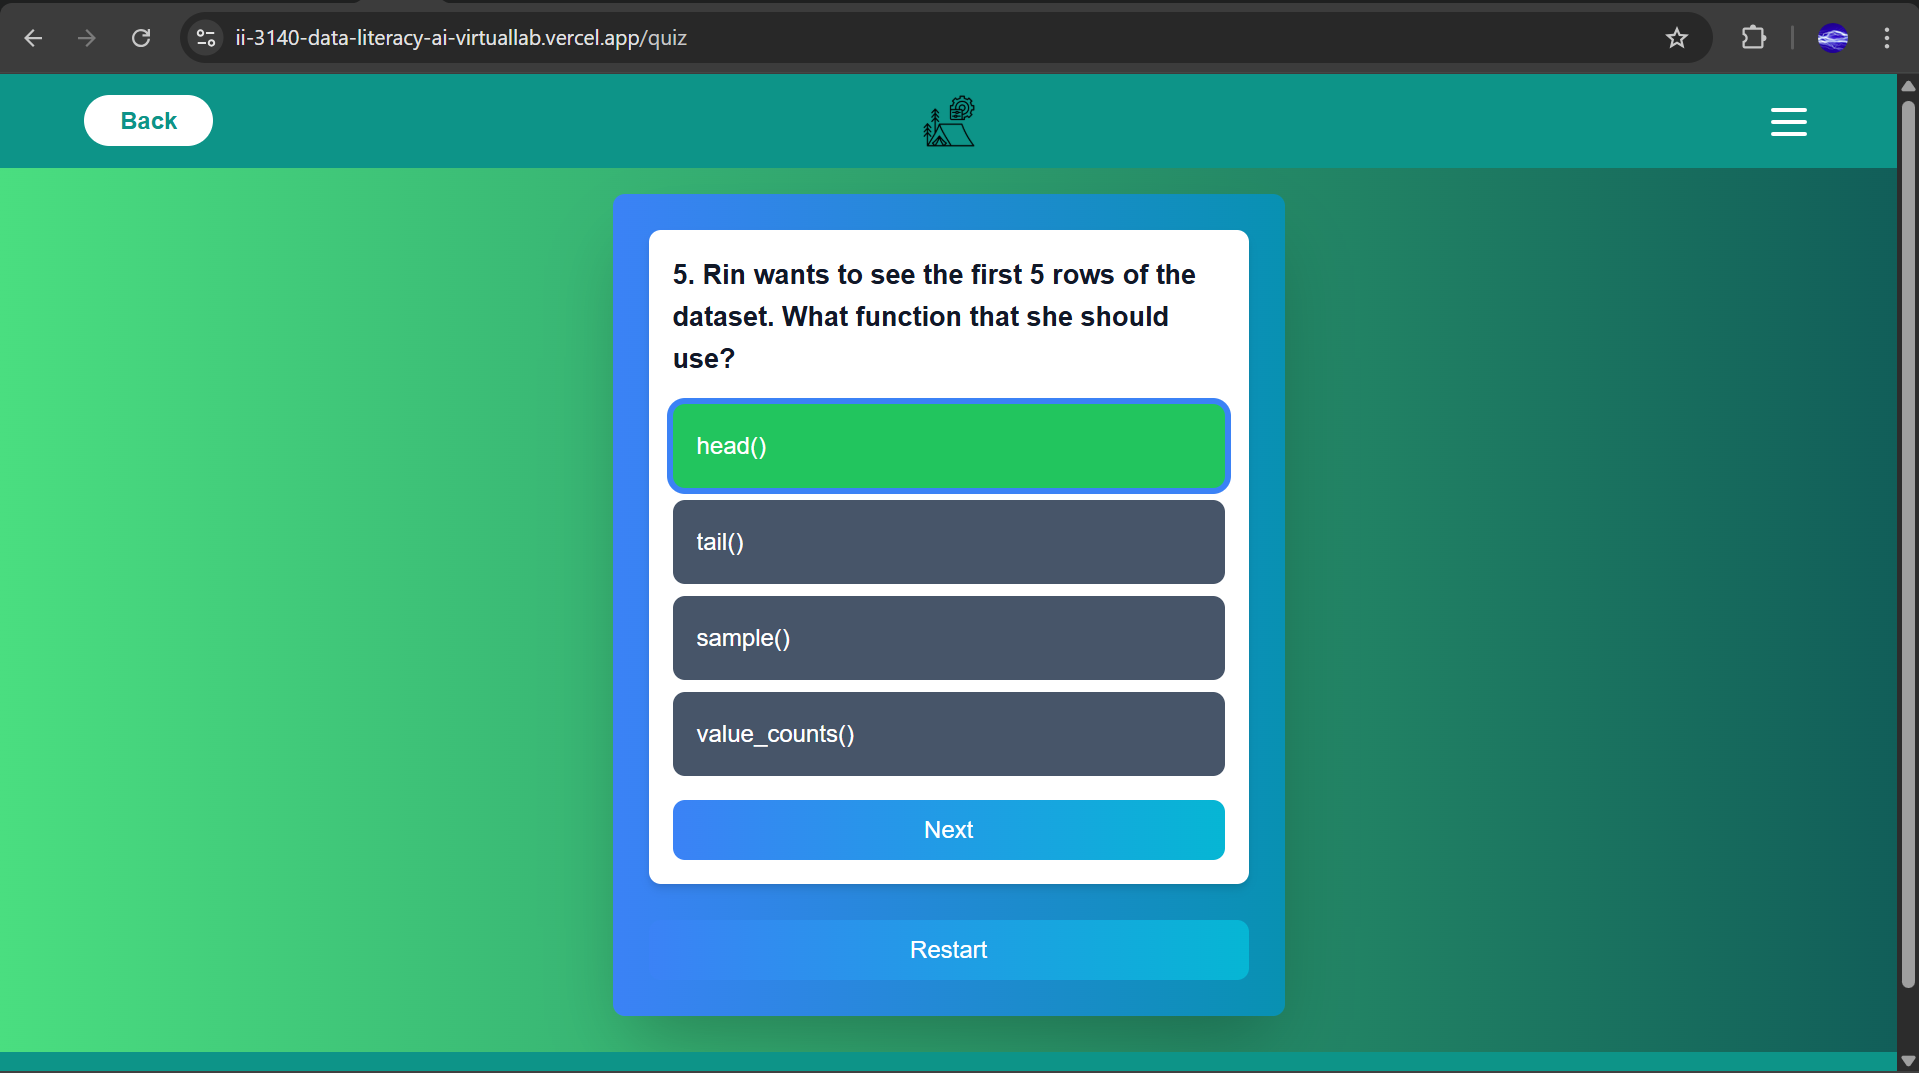
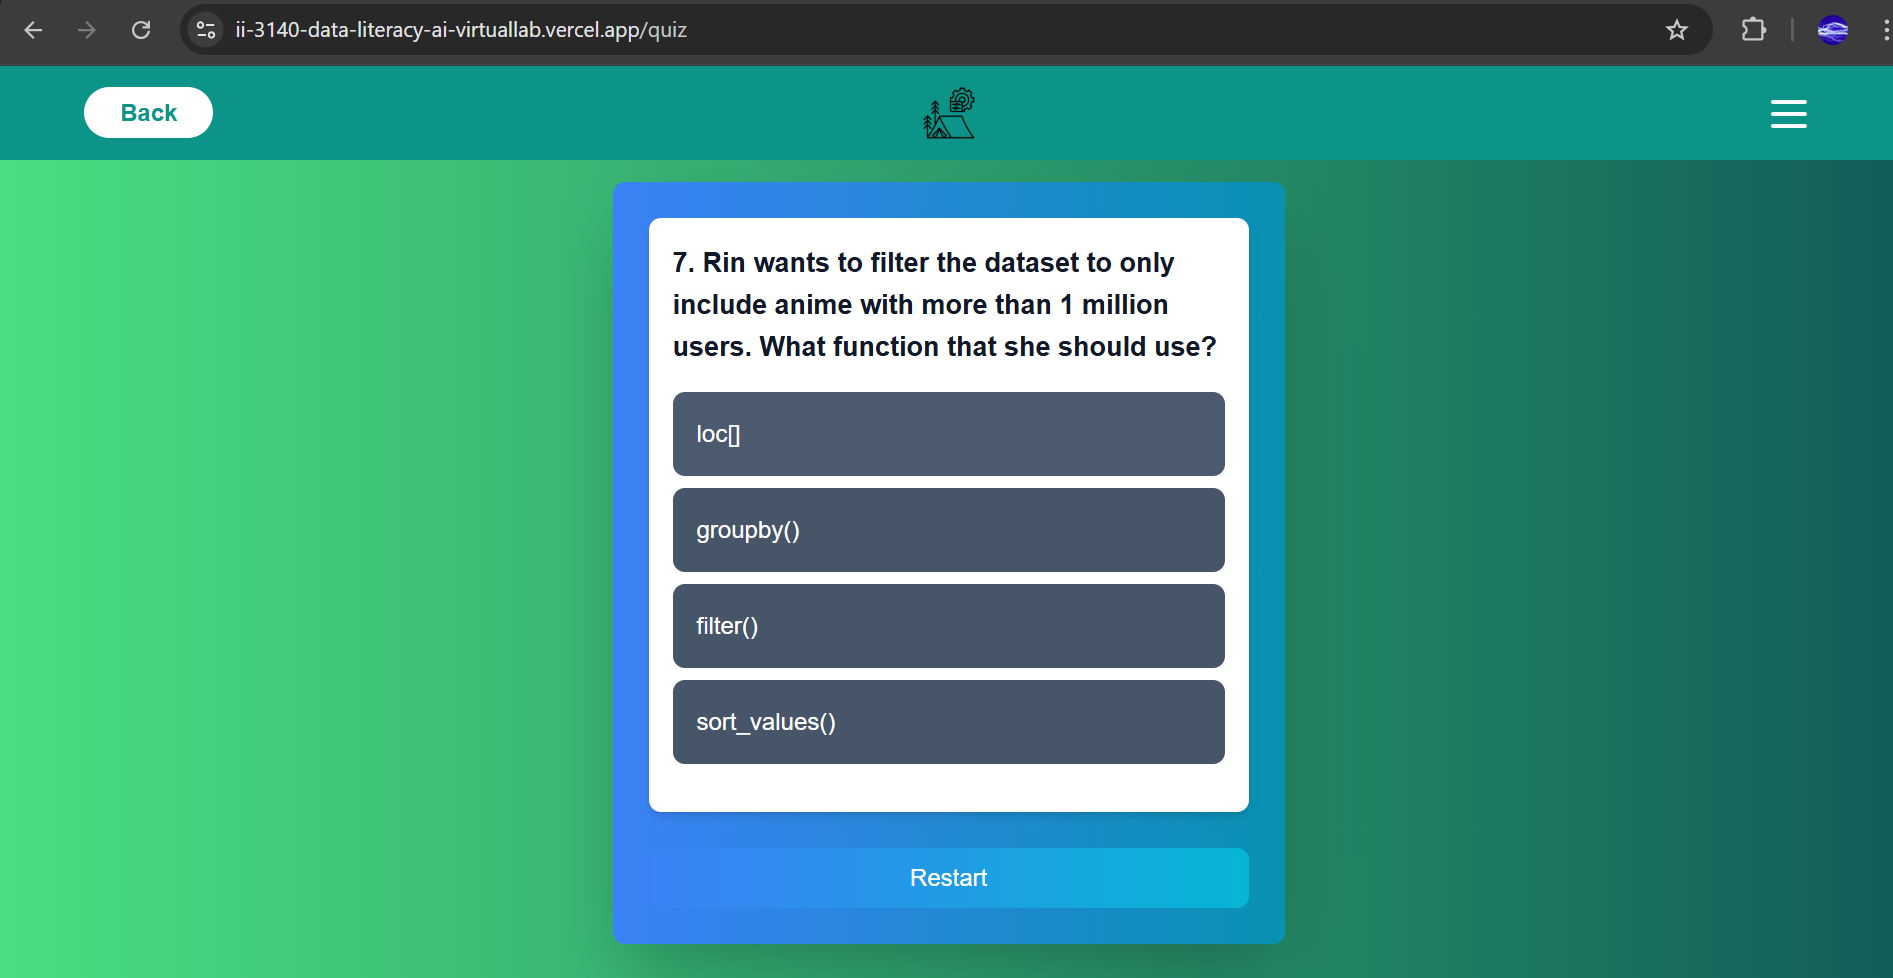
update README

Changed region(s): [[0.0, 0.0, 1.0, 1.0], [0.0623, 0.0, 0.374, 0.0613], [0.0, 0.0, 0.0312, 0.0307]]

diff --git a/README.md b/README.md
@@ -18,7 +18,7 @@ Tools that been used for this project:</br>
 
 ## Deployment:
 
-Frontend: Vercel
+Frontend: Vercel<br/>
 Backend: Supabase
 
 ## Prerequirement
